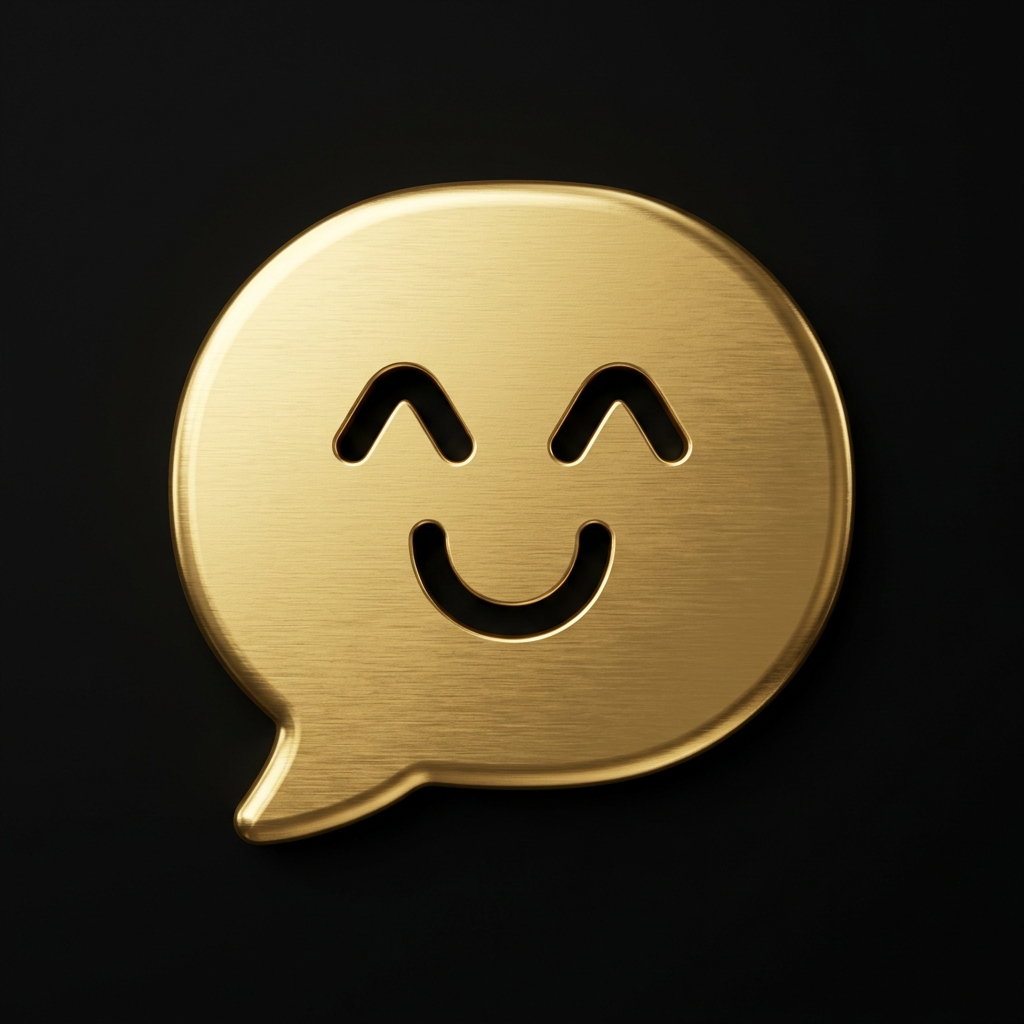
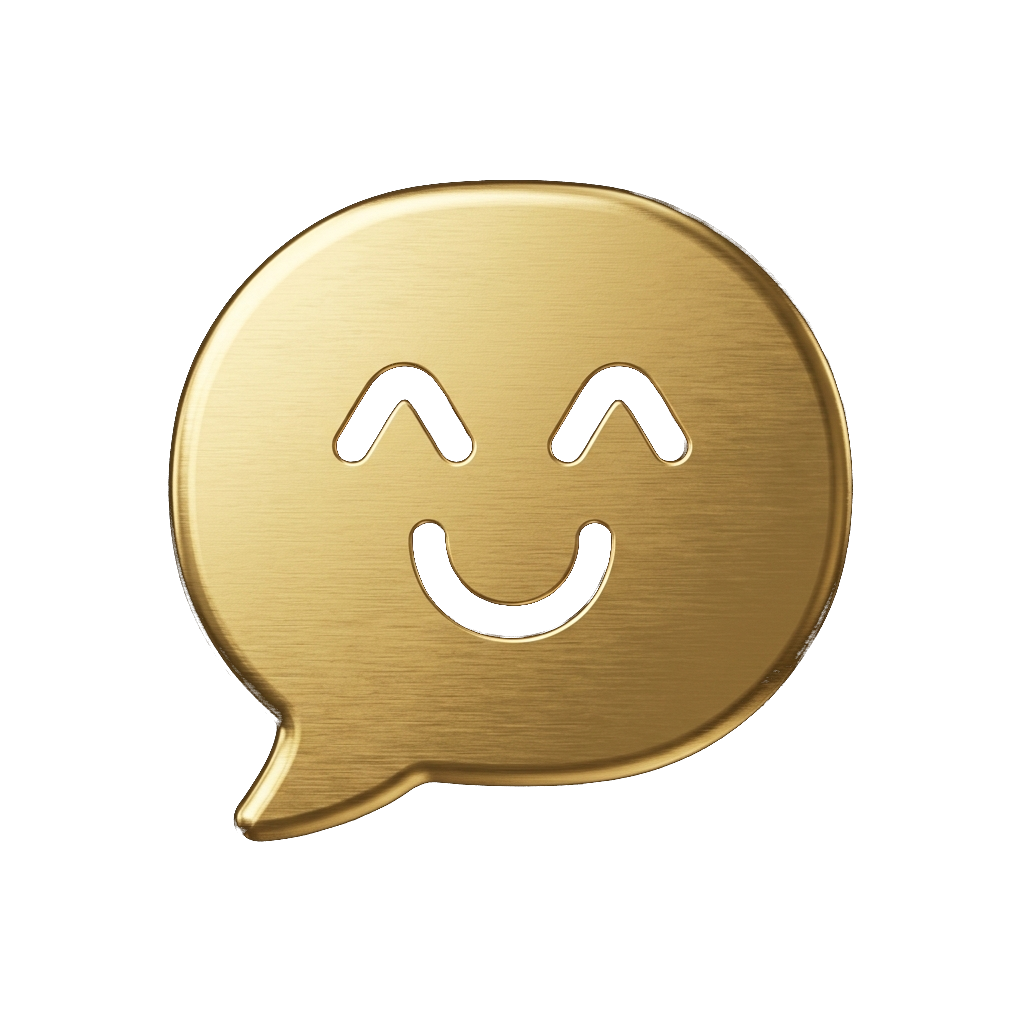
fix: remove black bg from PNG, shorten tooltips, clean up image CSS

diff --git a/src/components/ui/Chatbot.tsx b/src/components/ui/Chatbot.tsx
@@ -30,10 +30,10 @@ export function Chatbot({ hasProfile = false }: { hasProfile?: boolean }) {
   const [tooltip, setTooltip] = useState<string | null>(null);
 
   const tooltips = [
-    "¿Tienes alguna duda? Pregúntame aquí 👇",
-    "¿No sabes cómo pagar? Te explico cómo 💳",
-    "¿Quieres saber los horarios? Pregúntame 🕒",
-    "¡Hola! Habla conmigo si necesitas ayuda 💪"
+    "¿Tienes dudas? Pregúntame 👇",
+    "¿Ayuda con pagos? 💳",
+    "¿Horarios del gym? 🕒",
+    "¡Estoy aquí para ayudarte! 💪"
   ];
 
   useEffect(() => {
@@ -138,7 +138,7 @@ export function Chatbot({ hasProfile = false }: { hasProfile?: boolean }) {
               <div className="flex items-center gap-3">
                 <div className="w-10 h-10 rounded-full bg-transparent p-0 flex items-center justify-center">
                   {/* eslint-disable-next-line @next/next/no-img-element */}
-                  <img src="/images/gymbot-bubble.png" alt="Bot Logo" className="w-12 h-12 object-contain mix-blend-screen scale-110" />
+                  <img src="/images/gymbot-bubble.png" alt="GymBot" className="w-10 h-10 object-contain" />
                 </div>
                 <div>
                   <h3 className="font-bold text-sm leading-none text-white">GymBot</h3>
@@ -162,7 +162,7 @@ export function Chatbot({ hasProfile = false }: { hasProfile?: boolean }) {
                         <User className="w-4 h-4 text-accent-foreground" />
                       ) : (
                         // eslint-disable-next-line @next/next/no-img-element
-                        <img src="/images/gymbot-bubble.png" alt="Bot Logo" className="w-10 h-10 object-contain mix-blend-screen scale-110" />
+                        <img src="/images/gymbot-bubble.png" alt="GymBot" className="w-8 h-8 object-contain" />
                       )}
                     </div>
                     <div className={`p-3 rounded-2xl text-sm ${msg.role === "user" ? "bg-accent text-accent-foreground rounded-tr-sm" : "bg-[#1a1a1a] text-white rounded-tl-sm border border-[#333]"}`}>
@@ -176,7 +176,7 @@ export function Chatbot({ hasProfile = false }: { hasProfile?: boolean }) {
                   <div className="flex gap-2 max-w-[85%] flex-row">
                     <div className="w-8 h-8 rounded-full bg-black border border-primary/30 flex shrink-0 items-center justify-center mt-1 overflow-hidden">
                       {/* eslint-disable-next-line @next/next/no-img-element */}
-                      <img src="/images/gymbot-bubble.png" alt="Bot Logo" className="w-10 h-10 object-contain mix-blend-screen scale-110" />
+                      <img src="/images/gymbot-bubble.png" alt="GymBot" className="w-8 h-8 object-contain" />
                     </div>
                     <div className="p-3 rounded-2xl bg-[#1a1a1a] border border-[#333] text-foreground rounded-tl-sm flex items-center gap-1">
                       <span className="w-1.5 h-1.5 rounded-full bg-muted-foreground animate-bounce" />
@@ -232,7 +232,7 @@ export function Chatbot({ hasProfile = false }: { hasProfile?: boolean }) {
               initial={{ opacity: 0, y: 10, scale: 0.9 }}
               animate={{ opacity: 1, y: 0, scale: 1 }}
               exit={{ opacity: 0, y: 10, scale: 0.9 }}
-              className="absolute bottom-full mb-4 px-5 py-3 bg-black border border-primary/50 text-white text-sm font-bold rounded-2xl shadow-[0_0_30px_rgba(212,175,55,0.3)] cursor-pointer whitespace-normal max-w-[250px] text-center flex flex-col items-center z-50"
+              className="absolute bottom-full mb-4 right-0 px-4 py-2.5 bg-black/90 border border-primary/40 text-white text-xs font-semibold rounded-xl shadow-[0_0_20px_rgba(212,175,55,0.2)] cursor-pointer whitespace-nowrap flex flex-col items-center z-50"
               onClick={() => setIsOpen(true)}
             >
               {tooltip}
@@ -251,7 +251,7 @@ export function Chatbot({ hasProfile = false }: { hasProfile?: boolean }) {
             className="w-16 h-16 flex items-center justify-center hover:scale-110 transition-transform relative group drop-shadow-[0_0_20px_rgba(212,175,55,0.4)] hover:drop-shadow-[0_0_30px_rgba(212,175,55,0.6)] cursor-pointer"
           >
             {/* eslint-disable-next-line @next/next/no-img-element */}
-            <img src="/images/gymbot-bubble.png" alt="Chat" className="w-20 h-20 object-contain mix-blend-screen scale-125 transition-transform group-hover:scale-110" />
+            <img src="/images/gymbot-bubble.png" alt="Chat" className="w-14 h-14 object-contain transition-transform group-hover:scale-110" />
           </motion.button>
         )}
       </div>